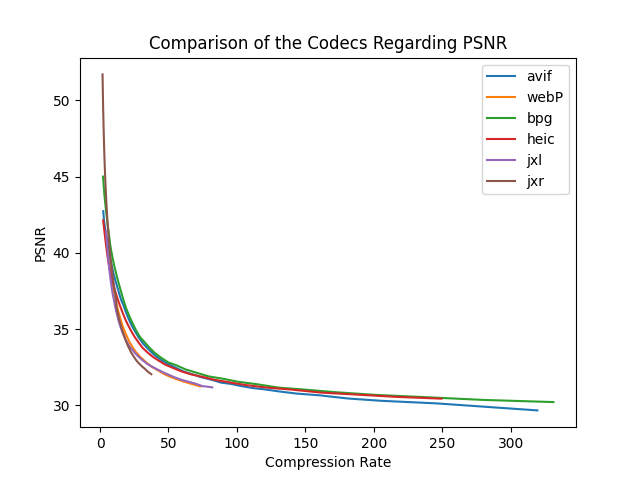
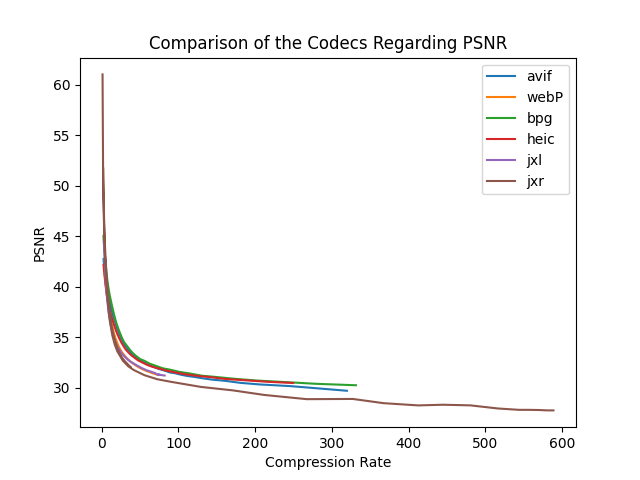
Add functionality to use also quantization steps in jxr quality measure (#46)

diff --git a/scripts/quality.py b/scripts/quality.py
@@ -37,11 +37,13 @@ def measure_quality():
     n_images = 5
     indices = np.floor(np.random.uniform(low=0, high=n_files - 1, size=n_images)).astype(int)
     image_paths = [files[i] for i in indices]
-    # make 50 quality steps (2 per step)
+    # make 50 quality steps
     steps = 50
     qualities = np.linspace(1, 100, steps).astype(int)
-    # qualities for jxr since range can be 0-10_000
-    qualities_jxr = np.linspace(0, 10_000, steps).astype(int)
+    # qualities for jxr since range can be 0-1 for quality, whereas from 2-255 the quantisation gets changed
+    qualities_jxr = 0.
+    qualities_jxr = np.append(qualities_jxr, np.linspace(0.0001, 1, int(steps/2)-1).astype(float))
+    qualities_jxr = np.append(qualities_jxr, np.linspace(2,255, int(steps/2)).astype(int))
     codecs = ['avif', 'webP', 'bpg', 'heic', 'jxl', 'jxr']
 
     codec_dictionary = {
@@ -61,7 +63,8 @@ def measure_quality():
             c_rates = np.zeros(n_images).astype(float)
             psnr = np.zeros(n_images).astype(float)
             for i, file_path in enumerate(image_paths):
-                file_name = file_path.split(sep='/')[-1].split(sep='.')[0] + '_' + str(q) + '_' + codec + '.png'
+                q_string = str(q).replace('.', '_')
+                file_name = file_path.split(sep='/')[-1].split(sep='.')[0] + '_' + q_string + '_' + codec + '.png'
                 decoded_path = 'Quality/Decoded/' + file_name
                 enc_size = codec_dictionary[codec](file_path, decoded_path, q)
                 c_rates[i] = os.path.getsize(file_path) / enc_size
@@ -79,3 +82,4 @@ def measure_quality():
 
 if __name__ == '__main__':
     measure_quality()
+    print('Quality measurement successful.')

diff --git a/scripts/jxrenc.py b/scripts/jxrenc.py
@@ -112,7 +112,8 @@ def encode_jxr_q(image_path, decoded_path, q):
     tif_path = decoded_path.split(sep='.')[0] + '.tif'
     im = Image.open(image_path)
     im.save(tif_path, quality=100)
-    os.system('JxrEncApp -q ' + str(q/maxQ) + ' -o ' + outputPath + ' -i ' + tif_path)
+    q_string = str(q) if q <= 1 else str(int(q))
+    os.system('JxrEncApp -q ' + q_string + ' -o ' + outputPath + ' -i ' + tif_path)
     enc_size = os.path.getsize(outputPath)
     decode_jxr(outputPath, tif_path)
     os.system('rm temp*')
